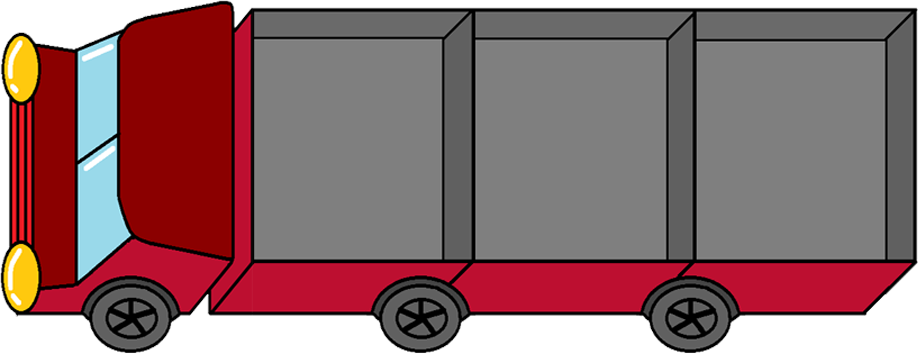
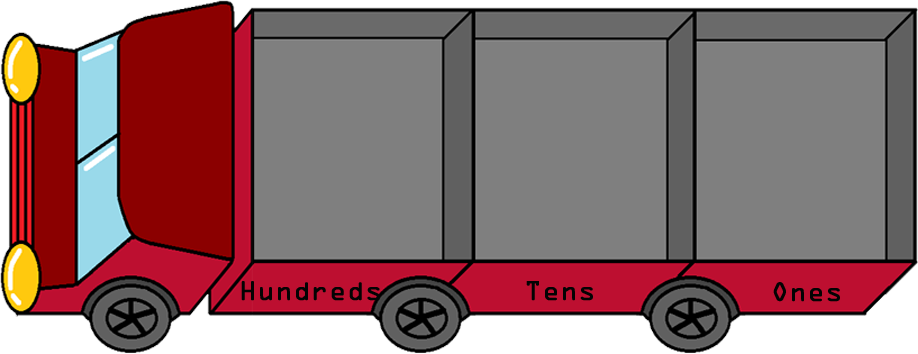
created unit 3

Changed region(s): [[0.244, 0.8079, 0.427, 0.8701], [0.8235, 0.8079, 0.915, 0.8701], [0.5795, 0.7768, 0.671, 0.8701]]

diff --git a/www/core/controllers/GroupingGame4Controller.js b/www/core/controllers/GroupingGame4Controller.js
@@ -1,0 +1,221 @@
+function GroupingGame4Controller() {
+	
+	// Image that are automatically loaded
+	this.images = {};
+
+	this.images.rabbit = "images/grouping_game/rabbit_head.png";
+	this.images.thinkCloud = "images/widgets/think_cloud.png";
+	this.images.belts = "images/grouping_game/unit3/belts.png";
+	//this.images.pack = "images/grouping_game/unit3/pack.png";
+	this.images.board1 = "images/grouping_game/unit3/board1.png";
+	this.images.board2 = "images/grouping_game/unit3/board2.png";
+	this.images.track = "images/grouping_game/unit3/track.png";
+	
+	this.images.star1 = "images/widgets/star1.png";
+	this.images.star2 = "images/widgets/star2.png";
+	this.images.star3 = "images/widgets/star3.png";
+
+	this.images.labelPaused = "images/widgets/label_paused.png";
+	this.images.labelTryAgain = "images/widgets/label_try_again.png";
+	this.images.labelPerfect = "images/widgets/label_perfect.png";
+	this.images.labelGood = "images/widgets/label_good.png";
+	this.images.labelExcellent = "images/widgets/label_excellent.png";
+
+	this.images.buttonPause = "images/widgets/button_pause.png";
+	this.images.buttonMenu = "images/widgets/button_menu.png";
+	this.images.buttonRestart = "images/widgets/button_restart.png";
+	this.images.buttonResume = "images/widgets/button_resume.png";
+	this.images.buttonDone = "images/widgets/button_done.png";
+	this.images.buttonRetry = "images/widgets/button_retry.png";
+	this.images.buttonNext = "images/widgets/button_next.png";
+
+	this.images.eggs = [
+		"images/grouping_game/eggs/egg1.png",
+		"images/grouping_game/eggs/egg2.png",
+		"images/grouping_game/eggs/egg3.png",
+		"images/grouping_game/eggs/egg4.png",
+		"images/grouping_game/eggs/egg5.png",
+		"images/grouping_game/eggs/egg6.png",
+		"images/grouping_game/eggs/egg7.png",
+		"images/grouping_game/eggs/egg8.png",
+		"images/grouping_game/eggs/egg9.png"
+	];
+	
+	// sounds
+	this.sounds = {};
+	this.sounds.acceptEgg = "sounds/grouping_game/accept_egg.wav";
+	this.sounds.declineEgg = "sounds/grouping_game/reject_egg.wav";
+	this.sounds.select = "sounds/menu/menu_select.wav";
+	this.sounds.wrapUp = "sounds/grouping_game/wrap_up.wav";
+	this.sounds.done = "sounds/grouping_game/done.wav";
+	
+	
+};
+
+GroupingGame4Controller.prototype.initialize = function() {
+	this.view = new GroupingGameView(this);
+	app.view = this.view;
+	
+	this.view.setImages(this.images);
+	this.view.setSounds(this.sounds);
+	
+	// ==================================================
+	// SETTING VIEW VARIABLES
+	// ==================================================
+	app.view.viewVars = {};
+	
+	// Number of packs at the origin at the beginning
+	app.view.viewVars.initialPackCount = 3;
+	
+	// Number of eggs at the origin at the beginning
+	app.view.viewVars.initialEggCount = 50;
+	
+	// The areas of the 'ones' belts that accepts the egg
+	app.view.viewVars.beltOnesArea = {};
+	app.view.viewVars.beltOnesArea.X_ARRAY =      [0.73, 0.79, 0.85, 0.91];
+	app.view.viewVars.beltOnesArea.Y_ARRAY =      [0.50, 0.58, 0.66, 0.74];
+	app.view.viewVars.beltOnesArea.RADIUS_ARRAY = [0.11, 0.11, 0.11, 0.11];
+
+	// The areas of the 'tens' belts that accepts the egg
+	app.view.viewVars.beltTensArea = {};
+	app.view.viewVars.beltTensArea.X_ARRAY =      [0.38, 0.44, 0.50, 0.56, 0.62, 0.68];
+	app.view.viewVars.beltTensArea.Y_ARRAY =      [0.50, 0.58, 0.66, 0.74, 0.82, 0.90];
+	app.view.viewVars.beltTensArea.RADIUS_ARRAY = [0.13, 0.13, 0.13, 0.13, 0.13, 0.13];
+
+	// widgets
+	app.view.viewVars.rabbitDimensions = {x:0.07, y:0.78, width:0.13, height:0.22};
+	app.view.viewVars.beltDimensions = {x:0.42, y:0.55, width:0.48, height:0.50};
+	app.view.viewVars.thinkCloudDimensions = {x:-0.03, y:0.48, width:0.45, height:0.50};
+	app.view.viewVars.thinkCloudTextLocation = {x:0.043, y:0.60};
+	app.view.viewVars.pauseButtonDimensions = {x:0.02, y:0.035, width:0.09, height:0.12};
+	app.view.viewVars.numberWidgetDimensions = {onesX: 0.62, onesY: 0.25, tensX: 0.36, tensY: 0.25};
+	app.view.viewVars.doneButtonDimensions = {x:0.86, y:0.45, width:0.15, height:0.2};
+	app.view.viewVars.trackDimensions = {x:0.01, y:0.14, width:0.89, height:0.43}
+	app.view.viewVars.board1Dimensions = {x:0.88, y:0.22, width:0.12, height:0.18}
+	app.view.viewVars.board2Dimensions = {x:0.88, y:0.75, width:0.12, height:0.18}
+	
+	// Tray and cover sizes and positions
+	app.view.viewVars.traySize = {width:0.395, height:0.42};
+	app.view.viewVars.trayCurrentPosition = {x:0.25, y:0.415};
+	app.view.viewVars.trayNextPosition = {x:0.05, y:0.71};
+	app.view.viewVars.trayBelowNextPosition = {x:-0.15, y:1.005};
+	app.view.viewVars.initialCoverPosition = {x:0.25, y:-0.415};
+
+	// Initial egg positions
+	app.view.viewVars.initialEggRectangle = {x:0.07, y:0.75, width:0.15, height:0.01};
+	app.view.viewVars.initialEggSize = {width:0.06, height:0.093};
+	
+	// Initial pack positions
+	app.view.viewVars.initialPackRectangle = {x:0.1, y:0.85, width:0.2, height:0.05};
+	app.view.viewVars.initialPackSize = {width:0.2, height:0.07};
+	
+	// The destination locations where packs will be locked in to
+	app.view.viewVars.packDestinationLocations = [
+		{x: 0.298, y: 0.444},
+		{x: 0.338, y: 0.502},
+		{x: 0.378, y: 0.560},
+		{x: 0.418, y: 0.618},
+		{x: 0.458, y: 0.676},
+		{x: 0.498, y: 0.734},
+		{x: 0.538, y: 0.792},
+		{x: 0.578, y: 0.850},
+		{x: 0.618, y: 0.908},
+	];
+	
+	// The destination locations where eggs will be locked in to
+	app.view.viewVars.eggDestinationLocations = [
+		//{x:0.470, y: 0.465},
+		{x:0.665, y: 0.405},
+		{x:0.727, y: 0.405},
+		
+		{x:0.715, y: 0.458},
+		{x:0.777, y: 0.458},
+		
+		{x:0.765, y: 0.511},
+		{x:0.827, y: 0.511},
+		
+		{x:0.815, y: 0.564},
+		{x:0.877, y: 0.564},
+		
+		{x:0.865, y: 0.617},
+		{x:0.927, y: 0.617},
+	];
+	
+	// complements
+	app.view.viewVars.compliments = [
+		"Good work!",
+		"Well done!",
+		"Great job!",
+		"Nice going!",
+		"Great!",
+		"Perfect!",
+		"Awesome!",
+		"Looks good!",
+		"Brilliant",
+		"Good!",
+		"Super!",
+		"Superb!"
+	];	
+	
+	// determines whether packs are being used.
+	app.view.viewVars.usePacks = true;
+	
+	if (app.GroupingGame4RestartNumber != null) {
+		this.goalNumber = app.GroupingGame4RestartNumber;
+		app.GroupingGame4RestartNumber = null;
+	} else {
+		this.goalNumber = app.UNIT_GAMES[app.currentUnit][app.currentGame].goalNumber;
+		this.goalNumber += MathUtil.random(0,9);
+	}
+	
+
+	
+	var title = MathUtil.convertNumberToWord(this.goalNumber);
+	
+	
+
+	this.view.drawBelts();
+	this.view.drawTrack();
+	this.view.drawBoards();
+	this.view.drawThinkCloud();
+	this.view.drawRabbit();	
+	this.view.drawPauseWidgets();	
+	this.view.drawDoneButton();
+	//this.view.drawEggs();
+	//this.view.drawNumbers();
+	//this.view.drawPacks();
+	//this.view.drawTitle(title);	
+	
+	app.stage.draw();
+};
+
+// destructor
+GroupingGame4Controller.prototype.finalize = function() {
+	
+};
+
+GroupingGame4Controller.prototype.restart = function(sameNumber) {
+	if (sameNumber) {
+		app.GroupingGame4RestartNumber = this.goalNumber;
+	}
+	app.route(app.getCurrentPage(), app.getCurrentPageParams());
+};
+
+GroupingGame4Controller.prototype.menu = function() {
+	app.route("MenuUnit");
+};
+
+GroupingGame4Controller.prototype.nextGame = function() {
+	if (app.nextGame()) {
+		app.route(app.getCurrentPage(), app.getCurrentPageParams());
+	} else {
+		app.route("MenuUnit");
+	}
+};
+
+GroupingGame4Controller.prototype.achievedStars = function (starsCount) {
+	var unitRecordsModel = new UnitRecordsModel(app.currentUnit);
+	if (unitRecordsModel.getStars(app.currentGame) < starsCount) {
+		unitRecordsModel.setStars(app.currentGame, starsCount);
+	}
+};

diff --git a/www/core/views/GroupingGameView.js b/www/core/views/GroupingGameView.js
@@ -916,3 +916,36 @@ GroupingGameView.prototype.finish = function(score) {
 	
 	
 };
+
+//draw track (only applied for unit3)
+GroupingGameView.prototype.drawTrack = function () {
+	var track = new Kinetic.Image({image: this.images.track});
+	WidgetUtil.glue(track, {
+		width: this.viewVars.trackDimensions.width,
+		height: this.viewVars.trackDimensions.height,
+		dx: this.viewVars.trackDimensions.x,
+		dy: this.viewVars.trackDimensions.y
+	});
+	app.layer.add(track);
+};
+
+//draw boards (only applied for unit3)
+GroupingGameView.prototype.drawBoards = function () {
+	var board1 = new Kinetic.Image({image: this.images.board1});
+	WidgetUtil.glue(board1, {
+		width: this.viewVars.board1Dimensions.width,
+		height: this.viewVars.board1Dimensions.height,
+		dx: this.viewVars.board1Dimensions.x,
+		dy: this.viewVars.board1Dimensions.y
+	});
+	app.layer.add(board1);
+	
+	var board2 = new Kinetic.Image({image: this.images.board2});
+	WidgetUtil.glue(board2, {
+		width: this.viewVars.board2Dimensions.width,
+		height: this.viewVars.board2Dimensions.height,
+		dx: this.viewVars.board2Dimensions.x,
+		dy: this.viewVars.board2Dimensions.y
+	});
+	app.layer.add(board2);
+};

diff --git a/www/index.html b/www/index.html
@@ -71,6 +71,7 @@
 	<script src="core/controllers/GroupingGameController.js"></script>
 	<script src="core/controllers/GroupingGame2Controller.js"></script>
 	<script src="core/controllers/GroupingGame3Controller.js"></script>
+	<script src="core/controllers/GroupingGame4Controller.js"></script>
 	<script src="core/controllers/MenuUnitController.js"></script>
 	<script src="core/controllers/Practice1Controller.js"></script>
 	

diff --git a/www/core/Application.js b/www/core/Application.js
@@ -118,7 +118,7 @@ $(function () {
 	
 	app.currentUnit=1;
 	app.currentGame=0;
-	app.route("Home");
+	app.route("GroupingGame4");
 	
 	//alert(JSON.stringify([1,2]));
 	//alert(JSON.parse("asdf"));
